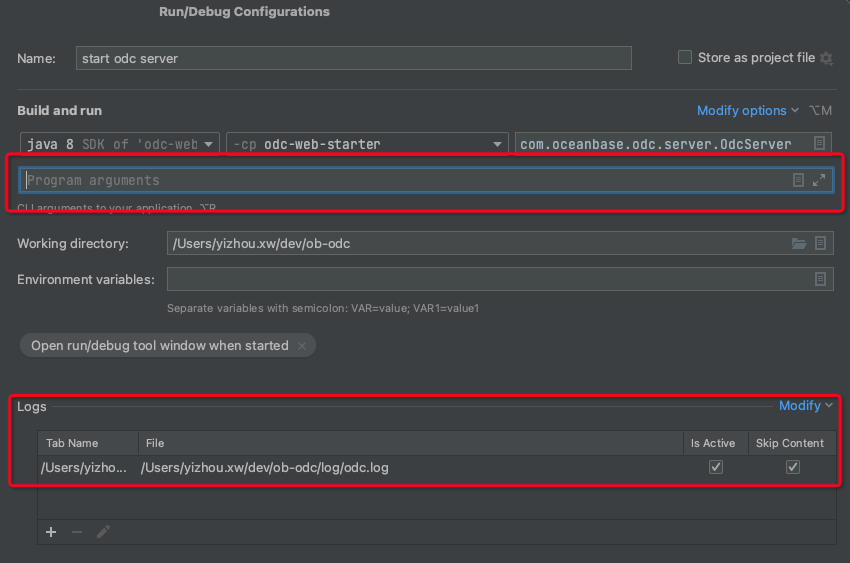
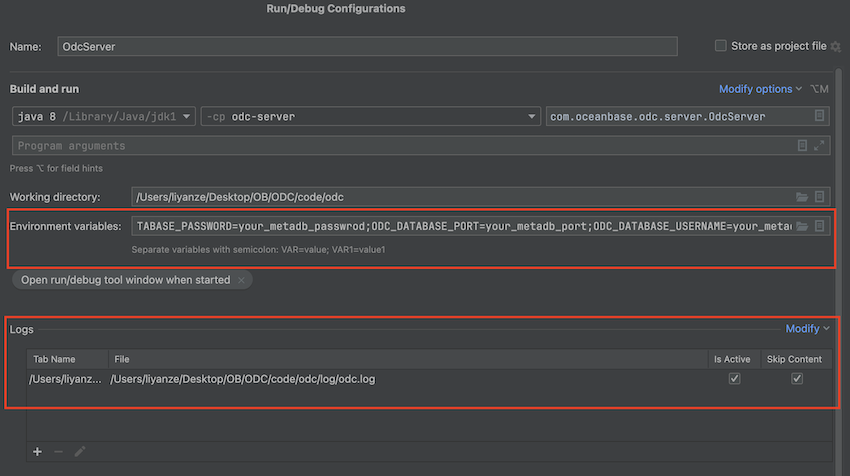
docs: replace idea-run-configuration-start-odc-server-2 with correct image (#3890)
* doc: replace idea-run-configuration-start-odc-server-2 with correct image

* doc: replace idea-run-configuration-start-odc-server-2 with correct image

diff --git a/docs/en-US/DEVELOPER_GUIDE.md b/docs/en-US/DEVELOPER_GUIDE.md
@@ -407,6 +407,11 @@ The setup for starting OdcServer is shown below.
 
 ![image.png](../en-US/images/idea-run-configuration-start-odc-server-2.png)
 
+The setup for environment variables is shown below.
+
+![image.png](../en-US/images/idea-run-configuration-start-odc-server-3.png)
+
+
 # 4. Frontend-backend integration
 
 ## 4.1 Front-end and back-end integration based on a static resource server <a id='4.1'></a>

diff --git a/docs/zh-CN/DEVELOPER_GUIDE.md b/docs/zh-CN/DEVELOPER_GUIDE.md
@@ -377,6 +377,11 @@ OdcServer 启动设置示意如下
 
 ![image.png](../en-US/images/idea-run-configuration-start-odc-server-2.png)
 
+环境变量（environment variables）配置示意如下
+
+![image.png](../en-US/images/idea-run-configuration-start-odc-server-3.png)
+
+
 # 4. 前后端集成和联调
 
 ## 4.1 基于静态资源服务器的前后端联调 <a id='4.1'></a>
